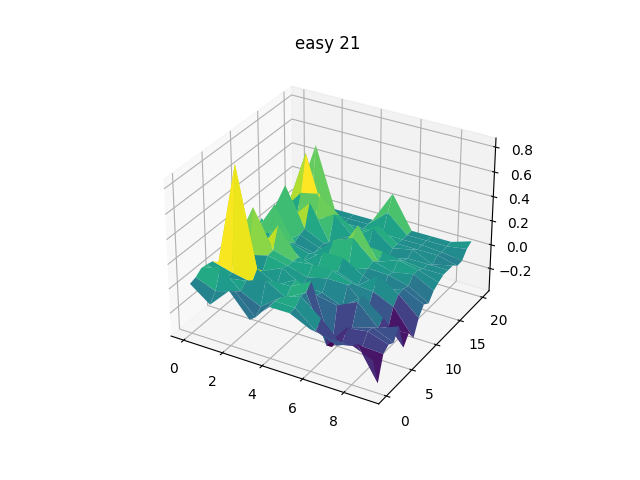
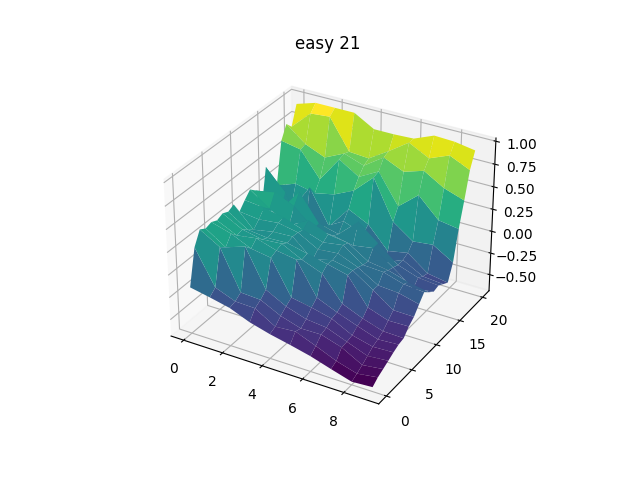
sarsa control implementation

Changed region(s): [[0.25, 0.1875, 0.8438, 0.8125]]

diff --git a/SARSA_control.py b/SARSA_control.py
@@ -1,0 +1,105 @@
+import matplotlib.pyplot as plt
+import Easy21_env as env
+import monte_carlo_control as mc
+import numpy as np
+import random
+
+N_0 = 100
+N_sa = np.zeros((10,21,2))
+Q_sa = np.zeros((10,21,2))
+actions = [env.Actions.HIT, env.Actions.STICK]
+gamma = 0.9
+
+def get_epsilon(state):
+    n_st = np.sum(N_sa[state.broker_hand - 1][state.player_hand - 1])
+    return N_0/(N_0 + n_st)
+
+def get_alpha(state, action):
+    n_sta = N_sa[state.broker_hand - 1][state.player_hand - 1][int(action)]
+    return 1/n_sta
+
+def update_N(state, action):
+    N_sa[state.broker_hand - 1][state.player_hand - 1][int(action)] += 1
+
+def select_action(state):
+    eps = get_epsilon(state)
+    if eps/len(actions) + 1-eps > random.random():
+        action = get_argmax_q_value(state)
+    else:
+        action = random.choice(actions)
+    return action
+
+def get_argmax_q_value(state):
+    max = -np.inf
+    argmax = None
+    for action in actions:
+        local_max = Q_sa[state.broker_hand - 1][state.player_hand - 1][int(action)]
+        if  local_max > max:
+            max = local_max
+            argmax = action
+    return argmax
+
+def SARSA_control(num_episodes):
+    i = 0
+    environment = env.Easy21Environment()
+    while i < num_episodes:
+
+        #initialize S
+        st = env.State(environment.draw(black_only=True), environment.draw(black_only=True))
+        #choose action for selected S
+        act = select_action(st)
+
+        while not st.is_terminal:
+            
+            #take action and observe Reward and New state
+            st_, reward = environment.step(st, act)
+            
+            #choose new action from derived new state
+            if not st_.is_terminal:
+                act_ = select_action(st_)
+                update_N(st, act)
+                delta = Q_sa[st_.broker_hand - 1][st_.player_hand - 1][int(act_)] - Q_sa[st.broker_hand - 1][st.player_hand - 1][int(act)]
+                Q_sa[st.broker_hand - 1][st.player_hand - 1][int(act)] += get_alpha(st, act) * (reward + delta)
+                act = act_
+            else:
+                update_N(st, act)
+                Q_sa[st.broker_hand - 1][st.player_hand - 1][int(act)] += get_alpha(st, act) * (reward - Q_sa[st.broker_hand - 1][st.player_hand - 1][int(act)])
+                act = None
+
+            st = st_
+
+        i += 1
+
+def mse(m1, m2):
+    res = 0
+    for i in range(10):
+        for j in range(21):
+            for action in actions:
+                res += pow(m1[i][j][int(action)] - m2[i][j][int(action)],2)
+
+    return res
+
+def plot_q(q):
+    plt.clf()
+    fig = plt.figure()
+    ax = plt.axes(projection='3d')
+
+    aux = np.zeros((10,21))
+    for i in range(10):
+        for j in range(21):
+            aux[i,j] = max(q[i,j,:])
+
+    x = [i for i in range(10)]
+    y = [i for i in range(21)]
+
+    x, y = np.meshgrid(x, y) 
+
+    aux = aux.transpose()
+    ax.plot_surface(x, y, aux, rstride=1, cstride=1,
+                    cmap='viridis')
+    ax.set_title('easy 21')
+    plt.savefig('SARSA_control')
+
+if __name__ == '__main__':
+    SARSA_control(50000)
+    plot_q(Q_sa)
